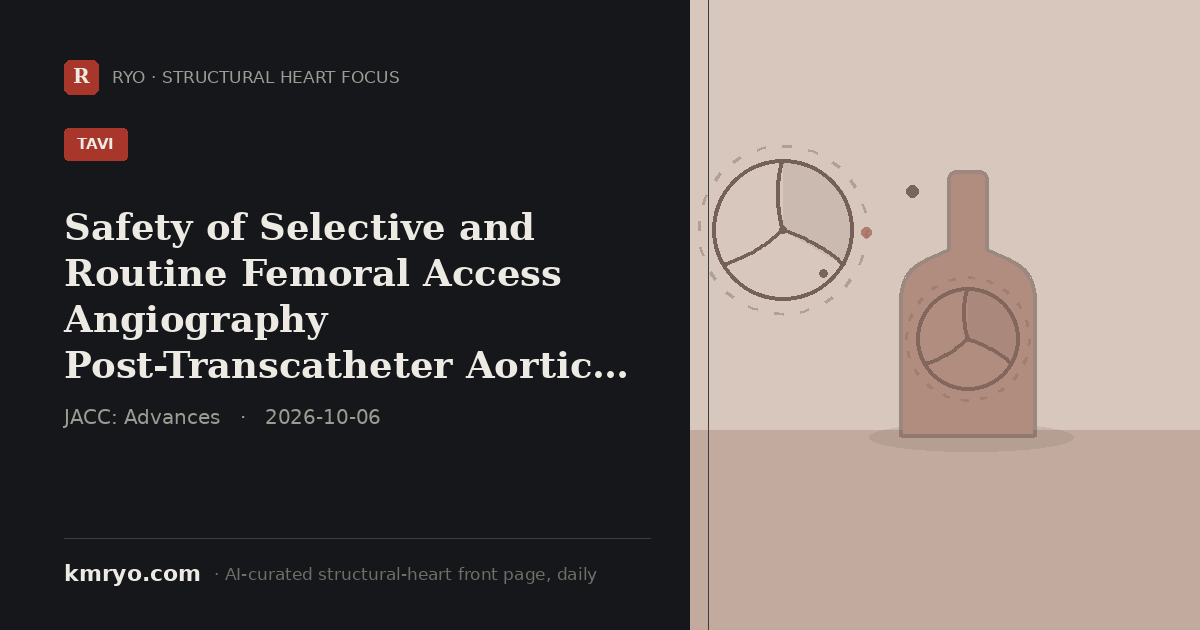
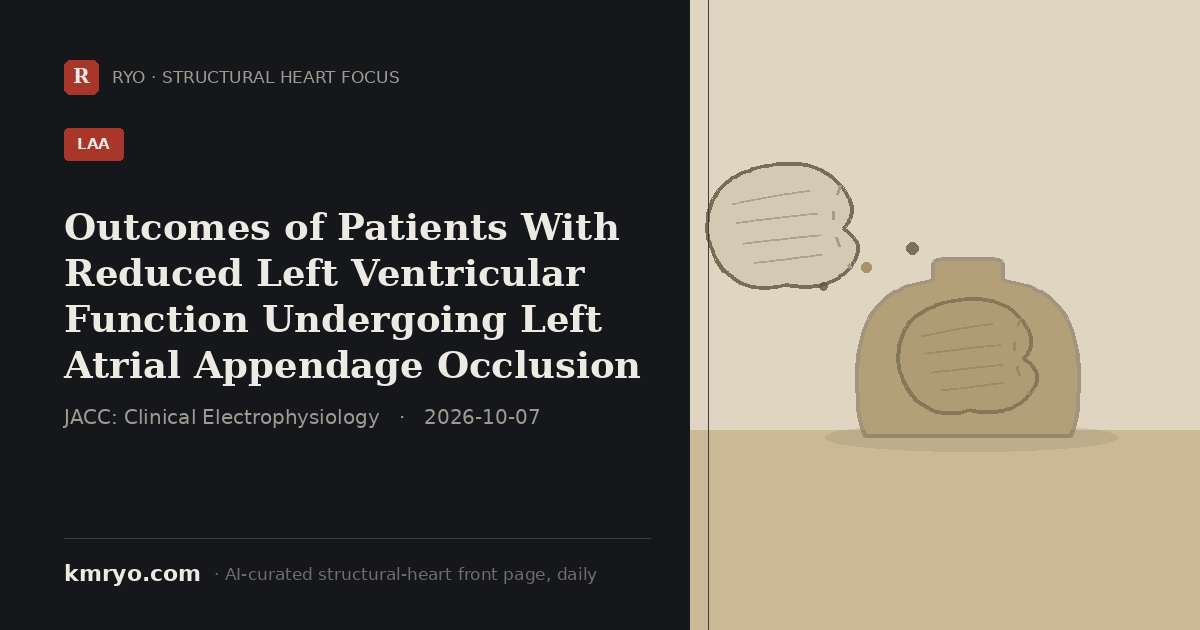
pulse: 2026-10-07 daily update
Claude-Session: https://claude.ai/code/session_01PTH5y99CahkoAMW6LTiEu2

diff --git a/index.html b/index.html
@@ -6,8 +6,8 @@
 <title>Structural Heart Focus — Daily | Dr. Mi Chen · 千觅量子 RYO</title>
 <meta name="description" content="Structural Heart Focus — the day's most important structural-heart reading (top journals, major meetings and the field's conversation), curated daily by an AI agent from inside the Zurich hybrid room. By Dr. Mi Chen · 千觅量子 RYO.">
 <!-- Social share card. Regenerated daily by the pulse agent (pulse/make_share_card.py); og:title/description updated to the day's top story so LinkedIn/WeChat/X show today's headline, not a static portrait. -->
-<meta property="og:title" content="Safety of Selective and Routine Femoral Access Angiography Post-Transcatheter Aortic Valve Implantation">
-<meta property="og:description" content="A two-site, 1,147-patient study finds selective, clinically-driven angiography after transfemoral TAVI matches routine angiography on vascular complications while detecting less bleeding (13.9% vs 5.2%).">
+<meta property="og:title" content="Outcomes of Patients With Reduced Left Ventricular Function Undergoing Left Atrial Appendage Occlusion">
+<meta property="og:description" content="An NCDR LAAO Registry study of 186,085 patients finds LVEF under 30% does not compromise LAAO procedural success or safety, but 1-year mortality rises sharply as LVEF falls (adjusted HR 1.93 for LVEF under 30%).">
 <meta property="og:image" content="https://www.kmryo.com/pulse/img/share/card.png">
 <meta property="og:image:width" content="1200">
 <meta property="og:image:height" content="630">
@@ -16,8 +16,8 @@
 <meta property="og:type" content="website">
 <meta property="og:site_name" content="kmryo.com · Structural Heart Focus">
 <meta name="twitter:card" content="summary_large_image">
-<meta name="twitter:title" content="Safety of Selective and Routine Femoral Access Angiography Post-Transcatheter Aortic Valve Implantation">
-<meta name="twitter:description" content="A two-site, 1,147-patient study finds selective, clinically-driven angiography after transfemoral TAVI matches routine angiography on vascular complications while detecting less bleeding (13.9% vs 5.2%).">
+<meta name="twitter:title" content="Outcomes of Patients With Reduced Left Ventricular Function Undergoing Left Atrial Appendage Occlusion">
+<meta name="twitter:description" content="An NCDR LAAO Registry study of 186,085 patients finds LVEF under 30% does not compromise LAAO procedural success or safety, but 1-year mortality rises sharply as LVEF falls (adjusted HR 1.93 for LVEF under 30%).">
 <meta name="twitter:image" content="https://www.kmryo.com/pulse/img/share/card.png">
[1 lines of base64/hex data omitted]
 <link rel="preconnect" href="https://fonts.googleapis.com">
